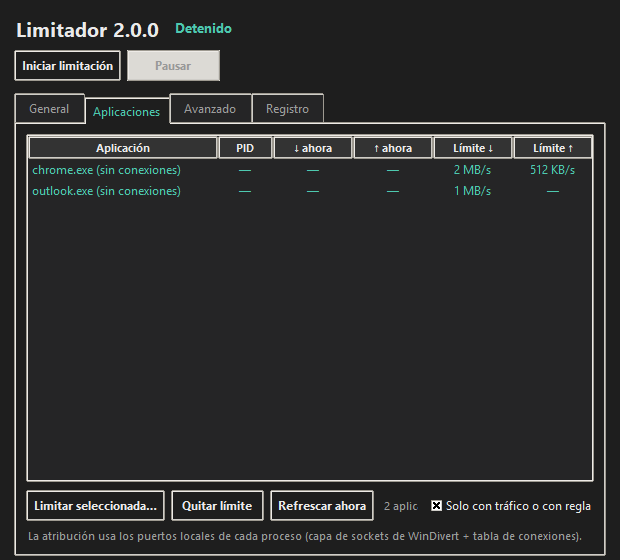
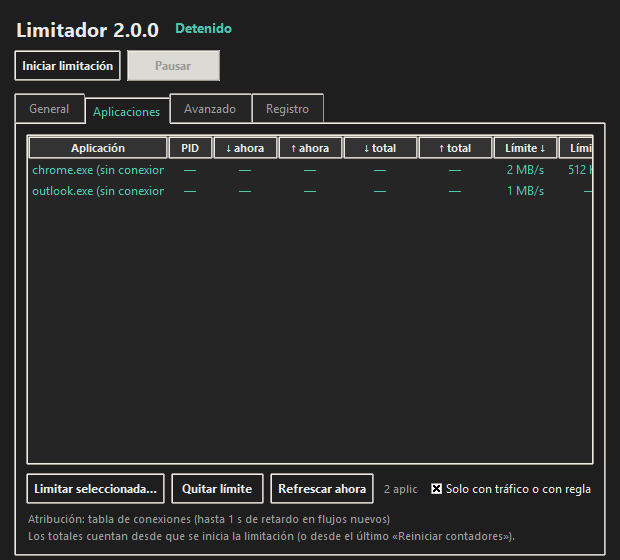
Totales por aplicacion en la pestana Aplicaciones (dato que el motor ya recogia pero no se mostraba)
El motor ya acumulaba bytes por PID en cada instantanea (per_pid); la tabla solo ensenaba la
velocidad instantanea. Ahora anade 'bajada total' y 'subida total' por aplicacion, que es lo
que mas se echa de menos frente a NetLimiter para saber quien gasta los datos. Los totales
cuentan desde que se inicia la limitacion y se reinician con el boton ya existente.

Capturas del README regeneradas (la tabla tiene 9 columnas), comprobado construyendo la GUI
de verdad (columnas presentes, fila insertada, cierre limpio). 114 pruebas, ruff en cero.

Changed region(s): [[0.0306, 0.8196, 0.95, 0.9714], [0.1226, 0.2429, 0.95, 0.3643], [0.2758, 0.3036, 0.3065, 0.3643]]

diff --git a/limitador/gui.py b/limitador/gui.py
@@ -246,16 +246,28 @@ class LimitadorApp(tk.Tk):
         tab = ttk.Frame(notebook, padding=10)
         notebook.add(tab, text="Aplicaciones")
 
-        columns = ("app", "pid", "down", "up", "limit_down", "limit_up", "state")
+        columns = (
+            "app",
+            "pid",
+            "down",
+            "up",
+            "total_down",
+            "total_up",
+            "limit_down",
+            "limit_up",
+            "state",
+        )
         self.apps_tree = ttk.Treeview(tab, columns=columns, show="headings", height=11)
         headings = {
-            "app": ("Aplicación", 190),
-            "pid": ("PID", 55),
-            "down": ("↓ ahora", 80),
-            "up": ("↑ ahora", 80),
-            "limit_down": ("Límite ↓", 80),
-            "limit_up": ("Límite ↑", 80),
-            "state": ("Estado", 90),
+            "app": ("Aplicación", 140),
+            "pid": ("PID", 45),
+            "down": ("↓ ahora", 65),
+            "up": ("↑ ahora", 65),
+            "total_down": ("↓ total", 75),
+            "total_up": ("↑ total", 75),
+            "limit_down": ("Límite ↓", 65),
+            "limit_up": ("Límite ↑", 65),
+            "state": ("Estado", 75),
         }
         for key, (text, width) in headings.items():
             self.apps_tree.heading(key, text=text)
@@ -288,6 +300,12 @@ class LimitadorApp(tk.Tk):
             textvariable=self.attribution_var,
             style="Muted.TLabel",
         ).pack(anchor="w", pady=(6, 0))
+        ttk.Label(
+            tab,
+            text="Los totales cuentan desde que se inicia la limitación (o desde el último "
+            "«Reiniciar contadores»).",
+            style="Muted.TLabel",
+        ).pack(anchor="w")
 
     def _build_advanced_tab(self, notebook: ttk.Notebook) -> None:
         tab = ttk.Frame(notebook, padding=14)
@@ -623,7 +641,15 @@ class LimitadorApp(tk.Tk):
         rules_by_exe = {self.config_data.normalise_exe(r.exe): r for r in self.config_data.rules}
         matched_rules: set[str] = set()
 
-        def add_row(pid: int | None, name: str, exe: str | None, down: float, up: float) -> None:
+        def add_row(
+            pid: int | None,
+            name: str,
+            exe: str | None,
+            down: float,
+            up: float,
+            total_down: int = 0,
+            total_up: int = 0,
+        ) -> None:
             rule = rules_by_exe.get(self.config_data.normalise_exe(exe or ""))
             if rule:
                 matched_rules.add(self.config_data.normalise_exe(rule.exe))
@@ -632,10 +658,12 @@ class LimitadorApp(tk.Tk):
                 "",
                 "end",
                 values=(
-                    name[:44],
+                    name[:30],
                     pid if pid else "—",
                     format_rate(down) if down else "—",
                     format_rate(up) if up else "—",
+                    format_bytes(total_down) if total_down else "—",
+                    format_bytes(total_up) if total_up else "—",
                     format_rate(rule.down_bps) if rule and rule.down_bps else "—",
                     format_rate(rule.up_bps) if rule and rule.up_bps else "—",
                     state,
@@ -654,7 +682,8 @@ class LimitadorApp(tk.Tk):
             rule_here = rules_by_exe.get(self.config_data.normalise_exe(exe or ""))
             if only_active and not down and not up and rule_here is None:
                 continue
-            add_row(pid, self.pmap.name_for(pid), exe, down, up)
+            totals = snapshot.per_pid.get(pid, (0, 0)) if snapshot is not None else (0, 0)
+            add_row(pid, self.pmap.name_for(pid), exe, down, up, totals[0], totals[1])
             shown += 1
 
         for rule in self.config_data.rules:  # rules for apps that are not running now

diff --git a/CHANGELOG.md b/CHANGELOG.md
@@ -68,7 +68,9 @@ Esta versión se ha verificado contra la red real.
   del techo) **no mejora la velocidad** — ambos modos dan lo mismo en la misma sesión. La opción
   queda detrás de `LIMITADOR_SPLIT_HANDLES=1` y el defecto vuelve a ser el descriptor único
   verificado. Siguiente hipótesis: retrasar ACK en vez de descartar datos.
-- **Monitor por aplicación** en vivo (bajada/subida por proceso) y lista de apps con conexiones.
+- **Monitor por aplicación** en vivo (bajada/subida por proceso) y lista de apps con conexiones,
+  con el **total acumulado** por aplicación desde que se inicia la limitación (o desde el último
+  «Reiniciar contadores»).
 - **Fail-open garantizado**: el camino por paquete no puede lanzar excepciones; un hilo vigilante
   libera la captura si un hilo del motor muere; la cola se vacía al detener en lugar de descartarse.
 - **Autocomprobación del analizador** antes de abrir el primer descriptor: un analizador roto

diff --git a/README.md b/README.md
@@ -55,7 +55,7 @@ Capturas generadas por la propia aplicación (`Limitador.exe --screenshot docs\i
 | General | Aplicaciones |
 |---------|--------------|
 | ![Pestaña General](docs/img/gui-general.png) | ![Pestaña Aplicaciones](docs/img/gui-aplicaciones.png) |
-| Límite de todo el equipo, en caliente | Qué app consume qué, y su límite propio |
+| Límite de todo el equipo, en caliente | Qué app consume qué **y cuánto lleva consumido**, con su límite propio |
 
 | Avanzado | Registro |
 |----------|----------|
